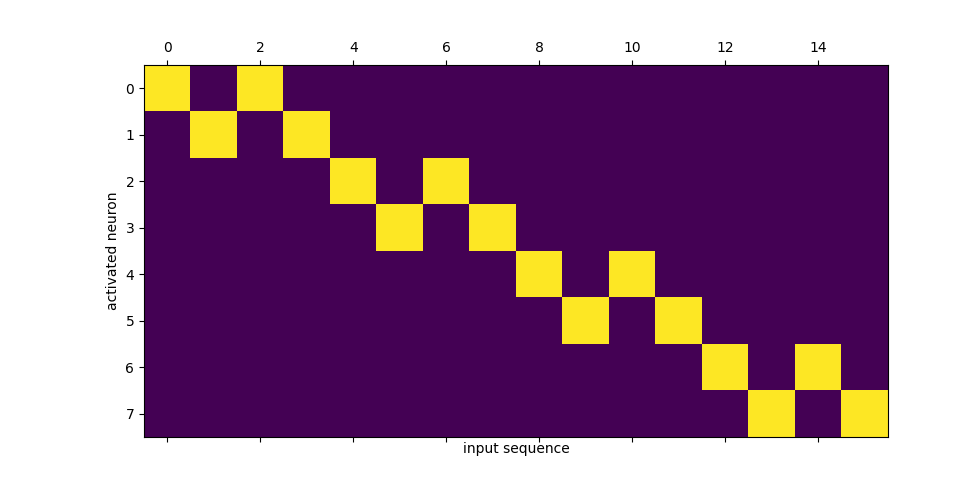
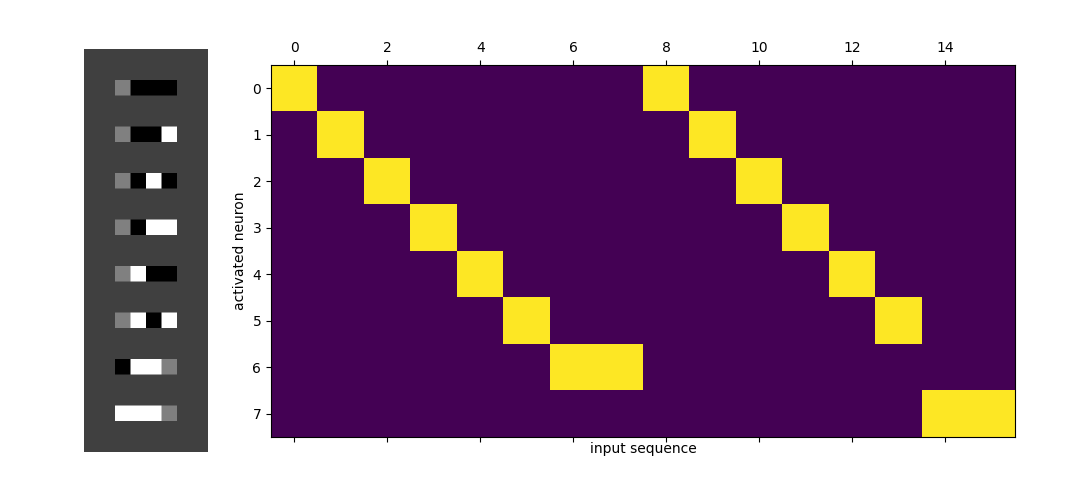
final commit!

diff --git a/main.py b/main.py
@@ -26,18 +26,18 @@ args = parser.parse_args()
 ### Weight Update Parameters ###
 
 # local conv params (3x3x12)
-# ucapture = 1.0 / 2
-# usearch = 1.0 / 1024
-# ubackoff = 1.0 / 2
-# rfsize = 3
-# neurons = 12
-
-# global conv params (3x3x12)
-ucapture = 1.0 / 1.5
-usearch = 1.0 / 768
-ubackoff = 1.0 / 1.5
+ucapture = 1.0 / 2
+usearch = 1.0 / 1024
+ubackoff = 1.0 / 2
 rfsize = 3
 neurons = 12
+
+# global conv params (3x3x12)
+# ucapture = 1.0 / 1.5
+# usearch = 1.0 / 768
+# ubackoff = 1.0 / 1.5
+# rfsize = 3
+# neurons = 12
 
 # global conv (5x5x24)
 # ucapture = 1.0 / 4
@@ -92,17 +92,17 @@ test_loader = DataLoader(MNIST('./data', False, download=True, transform=transfo
                          )
 
 
-inc_learn = 0
-# breakpoint1 = 60000
-breakpoint1 = 1000
+inc_learn = 1
+breakpoint1 = 60000
+# breakpoint1 = 1000
 interval1 = 1000
 breakpoint2 = 10000
 interval2 = 1000
 
 ### Layer Initialization ###
 
-# clayer = TNNColumnLayer(inputsize, rfsize, stride, nprev, neurons, theta, ntype="rnl", device=device)
-clayer = GlobalConvLayer(inputsize, rfsize, stride, nprev, neurons, theta, ntype="rnl", device=device)
+clayer = TNNColumnLayer(inputsize, rfsize, stride, nprev, neurons, theta, ntype="rnl", device=device)
+# clayer = GlobalConvLayer(inputsize, rfsize, stride, nprev, neurons, theta, ntype="rnl", device=device)
 vlayer = DualTNNVoterTallyLayer(rows_v, cols_v, nprev_v, classes_v, thetav_lo, thetav_hi, tau_eff, device=device)
 
 if cuda:
@@ -177,11 +177,11 @@ for idx, (data, target) in enumerate(test_loader):
         data = data.cuda()
         target = target.cuda()
 
-    # data = torch.transpose(data, 2, 3)
-    # if (target[0] % 2) == 0:
-    #     target[0] = target[0] + 1
-    # else:
-    #     target[0] = target[0] - 1
+    data = torch.transpose(data, 2, 3)
+    if (target[0] % 2) == 0:
+        target[0] = target[0] + 1
+    else:
+        target[0] = target[0] - 1
 
     out1, layer_in1, layer_out1 = clayer(data[0].permute(1, 2, 0))
     pred, voter_in, _ = vlayer(out1)

diff --git a/stdp_fundamentals.py b/stdp_fundamentals.py
@@ -60,11 +60,11 @@ def main():
     noiseProb = 0.1
     importantProb = 0.5
 
-    ucap = 0.5 / 7
-    ubackoff = 0.85 / 7
+    ucap = 0.5 / 6
+    ubackoff = 0.85 / 6
     usearch = 1 / 4000
 
-    rng = np.random.default_rng(seed=5432)
+    rng = np.random.default_rng(seed=54321)
 
     # setup some stuff
     cuda = torch.cuda.is_available()
